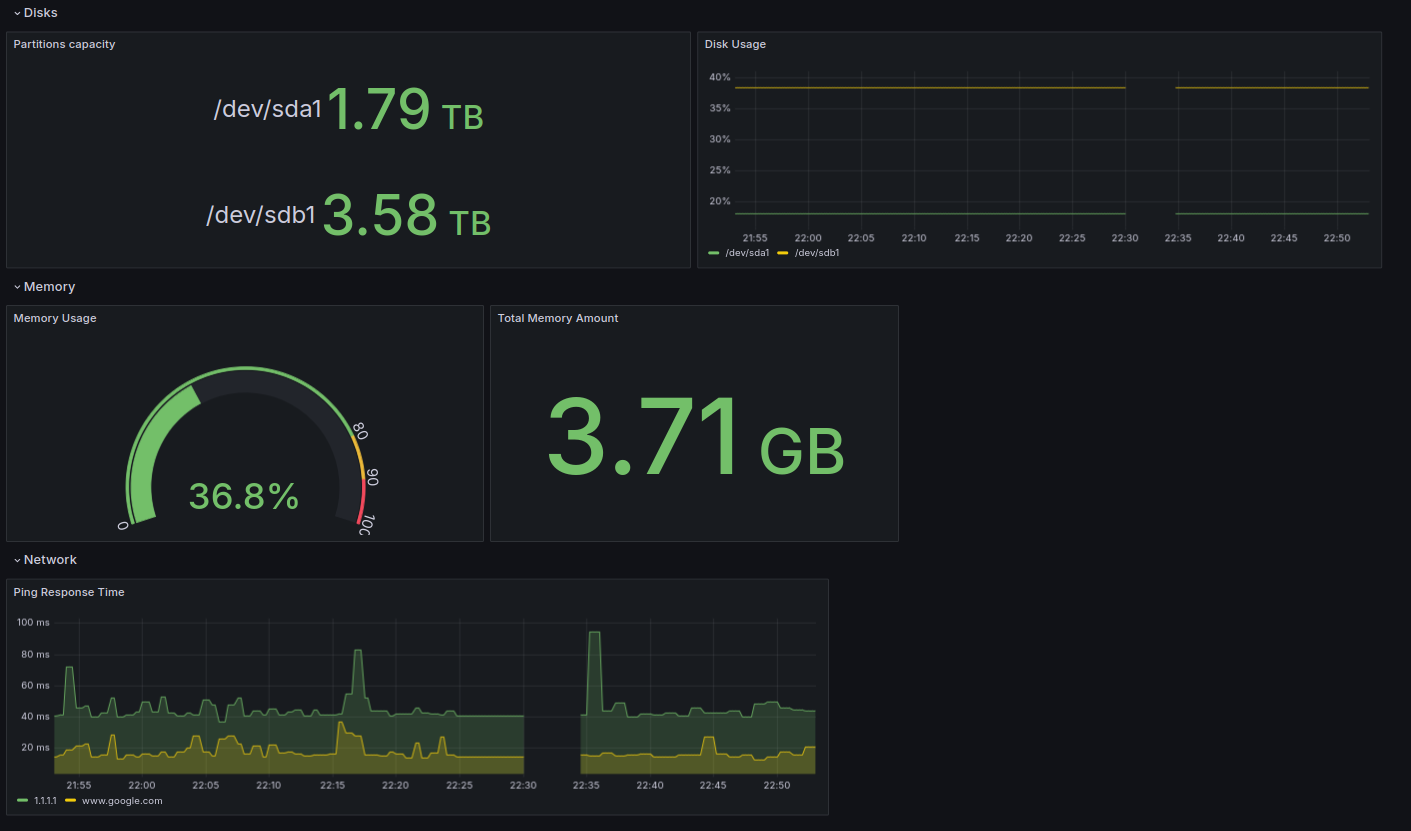
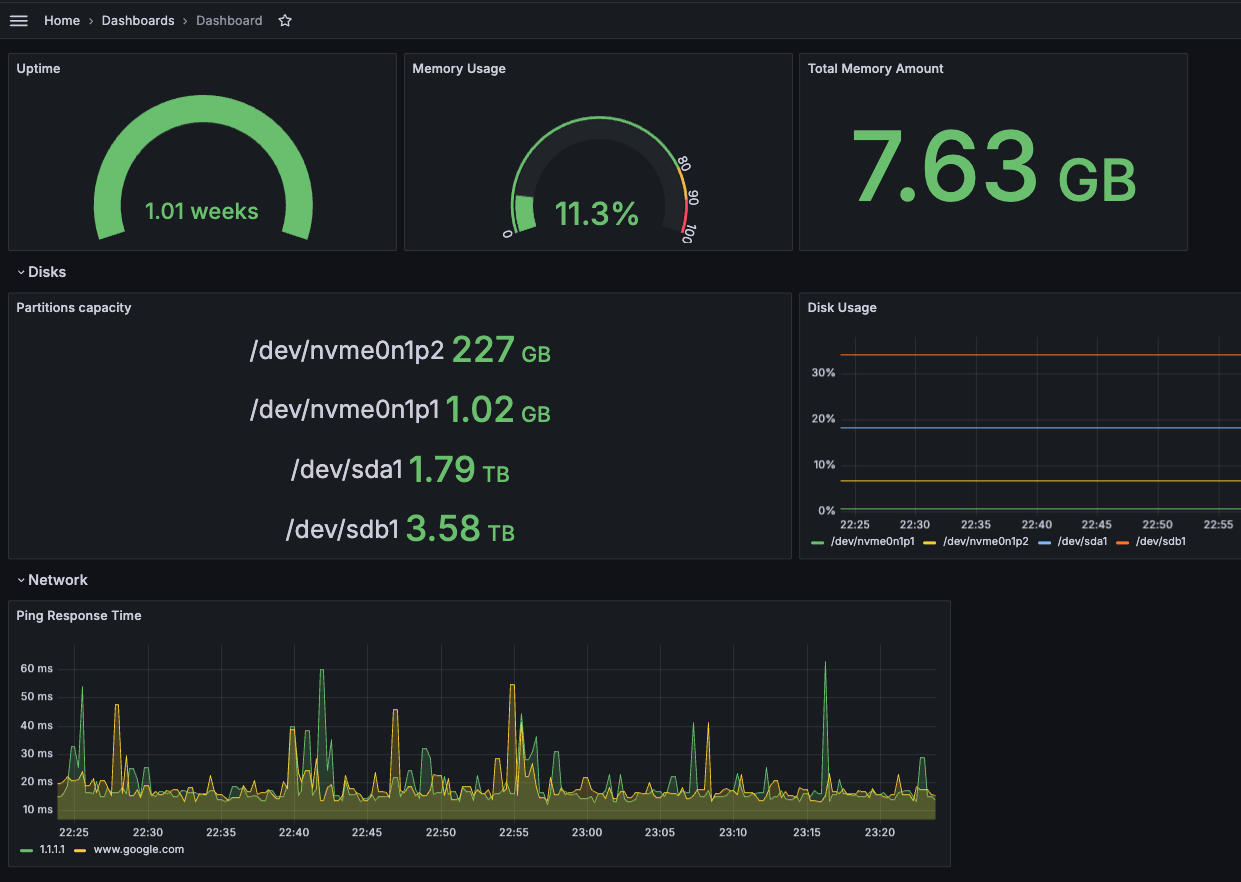
update readme

diff --git a/README.md b/README.md
@@ -1,6 +1,8 @@
-![Python](https://img.shields.io/badge/python-3670A0?style=for-the-badge&logo=python&logoColor=ffdd54) 
-![YAML](https://img.shields.io/badge/yaml-%23ffffff.svg?style=for-the-badge&logo=yaml&logoColor=151515) 
-![Docker](https://img.shields.io/badge/docker-%230db7ed.svg?style=for-the-badge&logo=docker&logoColor=white)
+![Python](https://img.shields.io/badge/python-3670A0?style=for-the-badge&logo=python&logoColor=ffdd54&style=social)
+![YAML](https://img.shields.io/badge/yaml-%23ffffff.svg?style=for-the-badge&logo=yaml&logoColor=151515&style=social)
+![Docker](https://img.shields.io/badge/docker-%230db7ed.svg?style=for-the-badge&logo=docker&logoColor=white&style=social)
+![GitHub Actions](https://img.shields.io/badge/github%20actions-%232671E5.svg?style=for-the-badge&logo=githubactions&logoColor=white&style=social)
+*[.](https://github.com/Ileriayo/markdown-badges?tab=readme-ov-file#streaming)*
 
 [![License: MIT](https://img.shields.io/badge/License-MIT-yellow.svg)](https://opensource.org/licenses/MIT)
 
@@ -8,6 +10,9 @@
 [![YAMLlint](https://github.com/przemekgorzynski/CustomMetricsMonitoring/actions/workflows/yamllint.yml/badge.svg)](https://github.com/przemekgorzynski/CustomMetricsMonitoring/actions/workflows/yamllint.yml)
 
 # CustomMetricsMonitoring
+
+Project to expose and visialize host's metrics. Metrics exporter written in Python, and visualized using Prometheus and Grafana. Stack is deployed with docker-compose. 
+
 
 Before running update argunemts (PING_TARGETS, DISK_TYPES_TO_MONITOR) in `docker-compose.yml` file.
 
@@ -28,6 +33,9 @@ Available metrics so far:
 - `ping_response_time` - ping response time to remote targets  
 - `node_disk_total_space` - total size of disk device
 - `node_disk_usage_space` - used size of disk device
+- `node_memory_total_amount` - total amount od memory
+- `node_memory_usage_amount` - used memory amount
+- `uptime` - host uptime
 
 ## Execution
 ```
